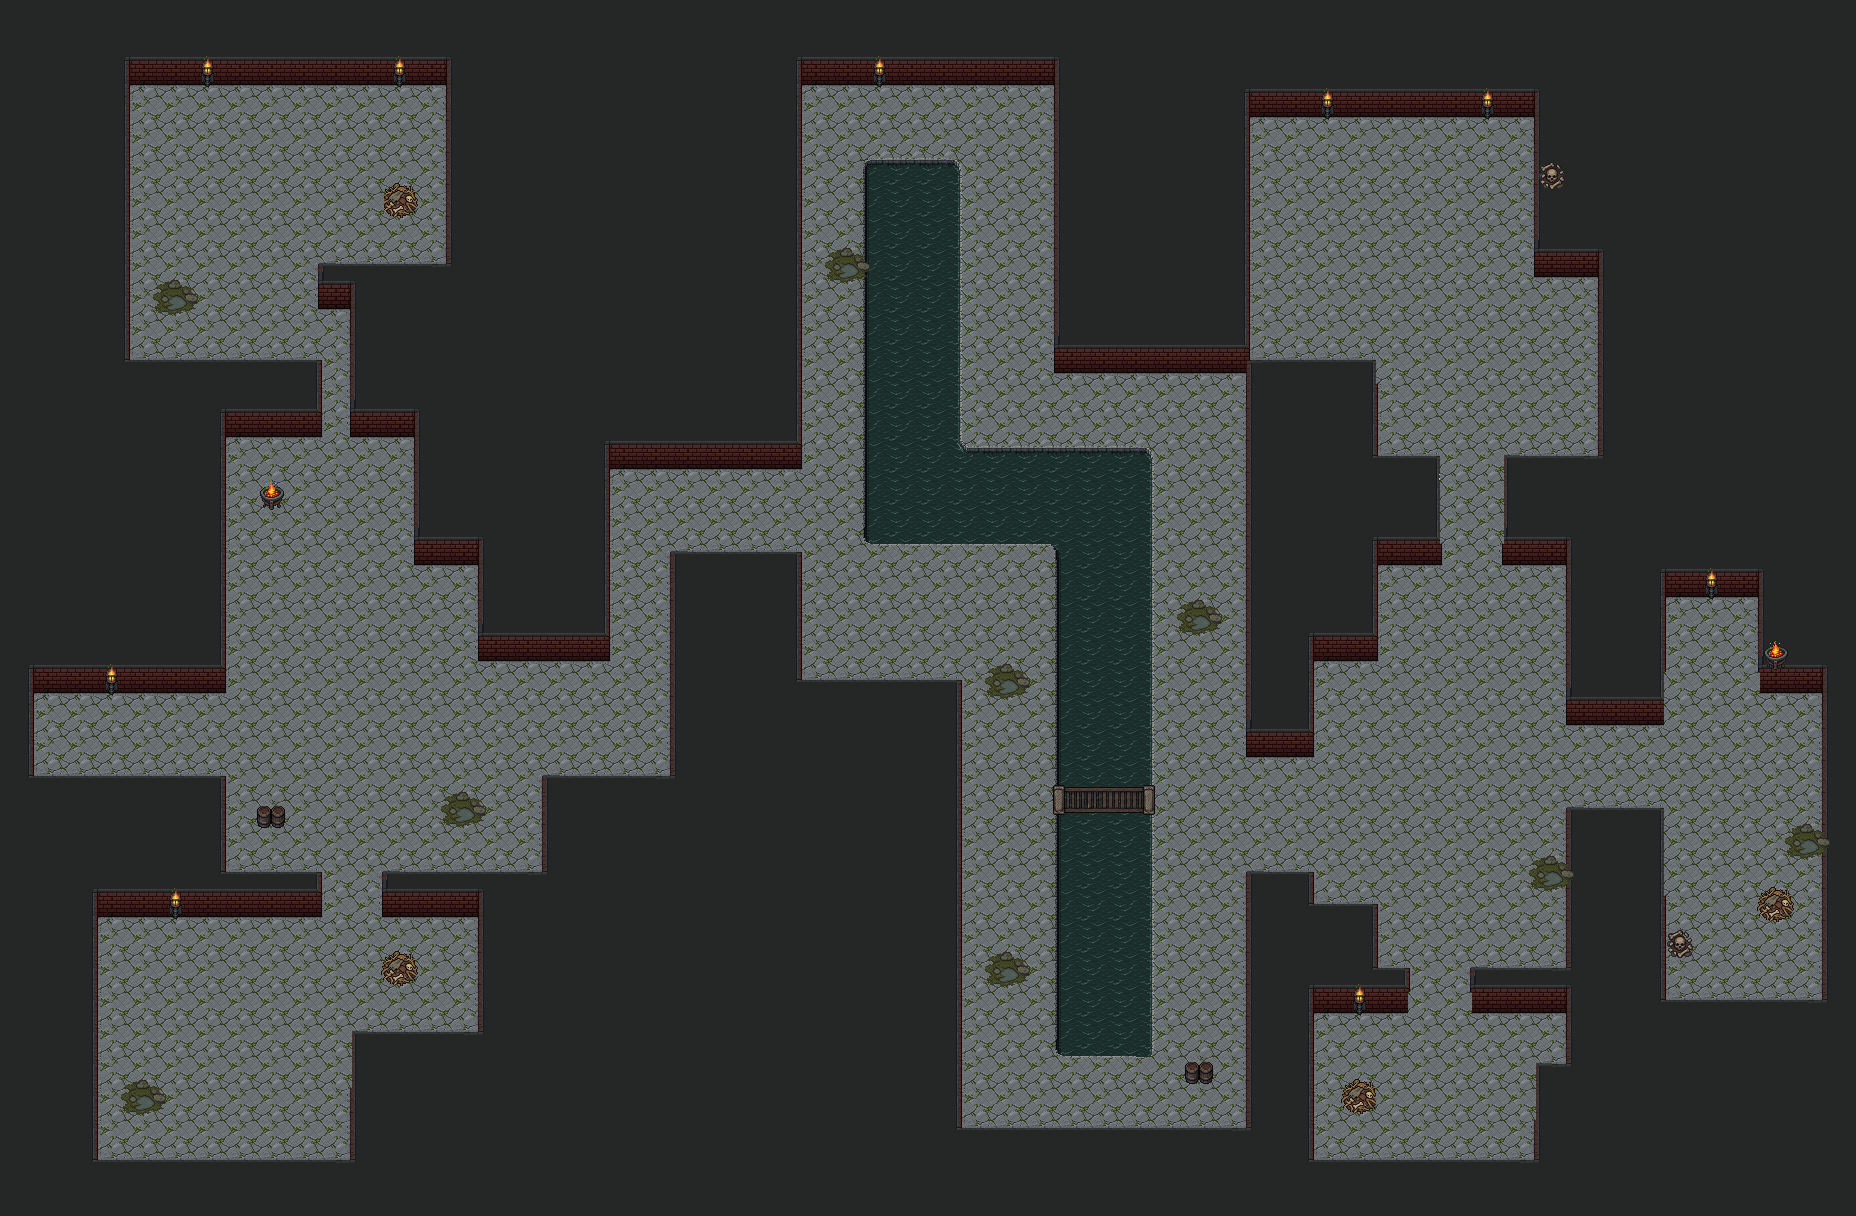
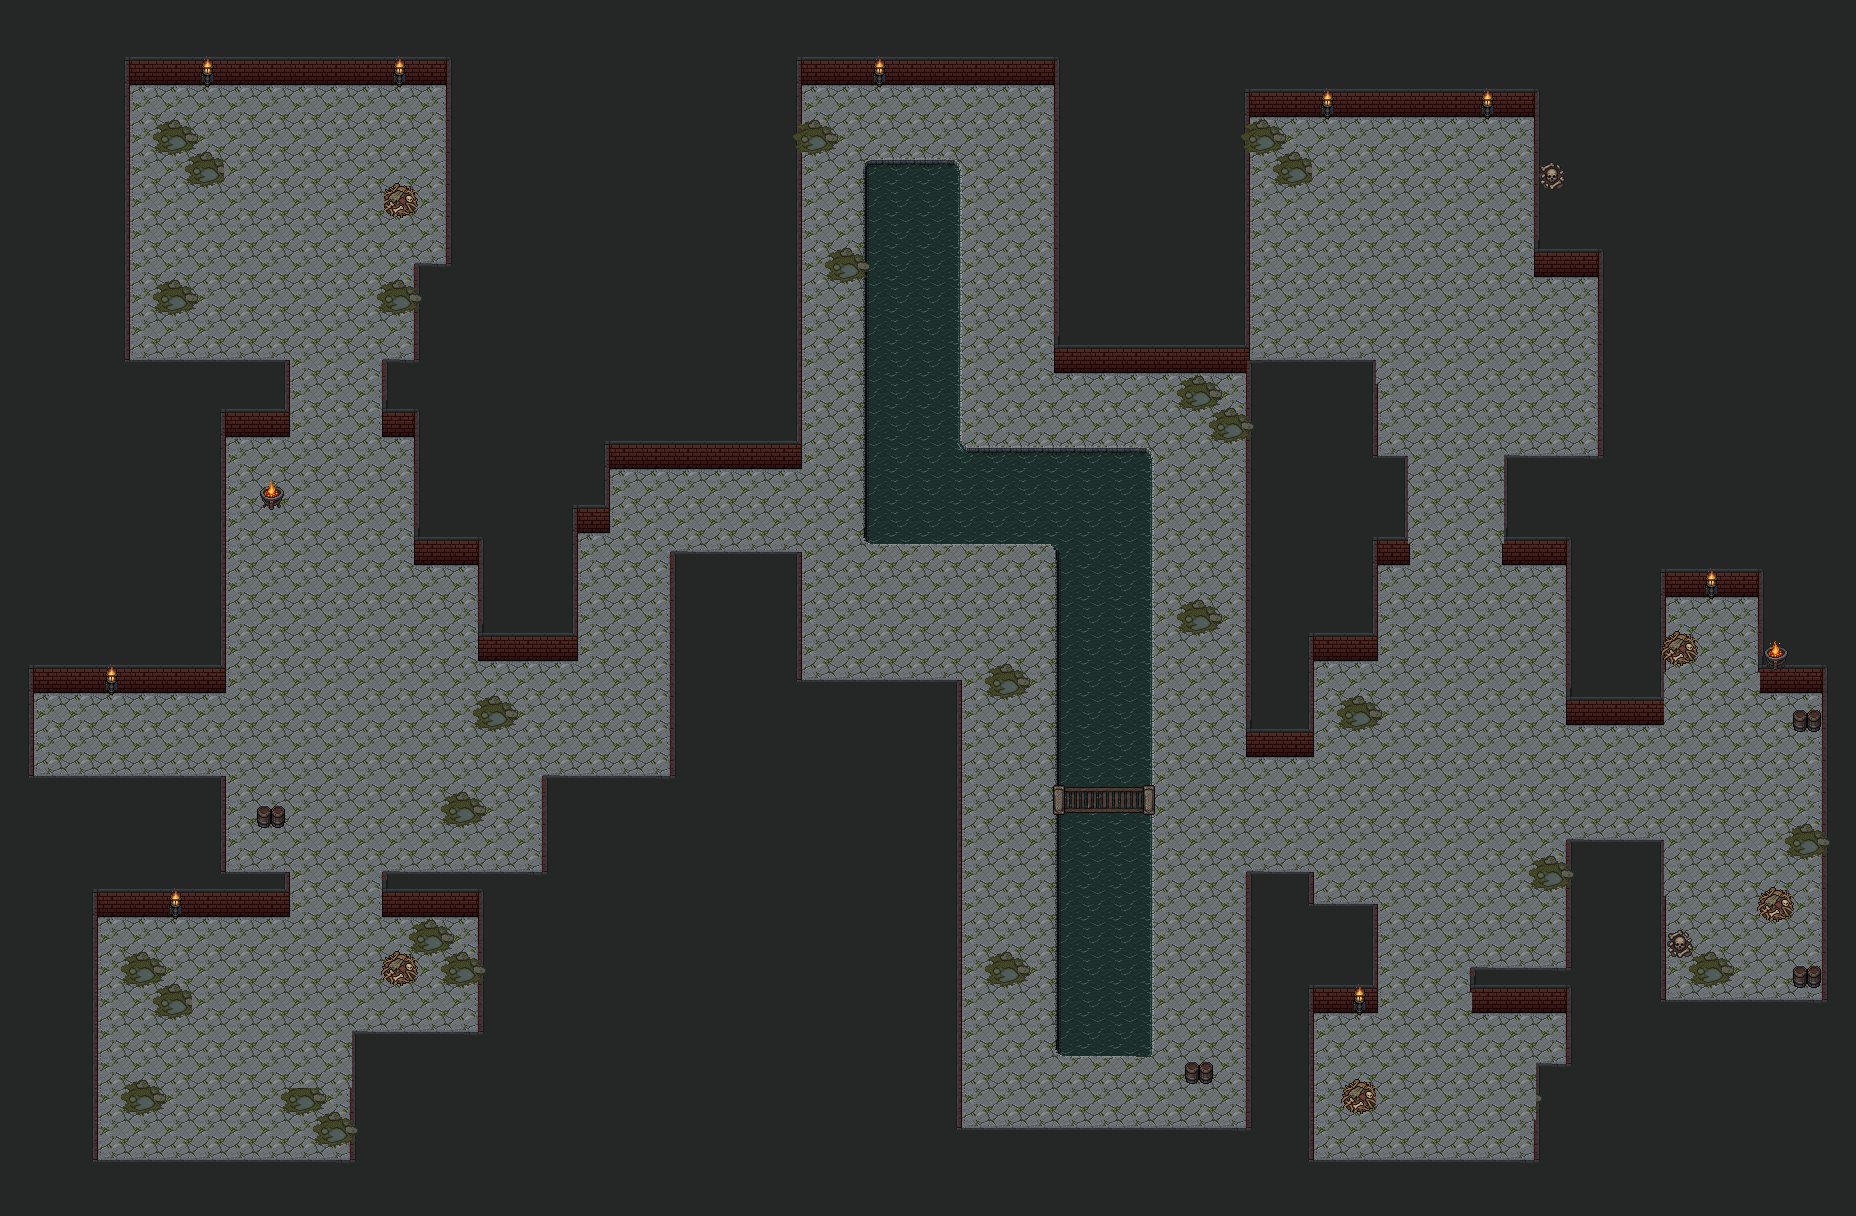
proto(hunt-sim): widened sewer re-export, room aggro + leash, hero death
Map re-exported after widening NW/SW/NE/SE/King corridors to 3 and
adding clustered moss-puddle decals plus Rat King props. Sim: pull
when the knight reaches the pack inside its room, monsters leash to
the room, heroes die and respawn at the entrance, number offsets,
druid bolt, camera snap, ranged prefer tiles inside the room.

diff --git a/prototypes/hunt-sim/sim.js b/prototypes/hunt-sim/sim.js
@@ -5,7 +5,8 @@
 const CONFIG = {
   tile: 32, scale: 2, dt: 1 / 30,
   swing: 2.0,                 // every attack, heroes and monsters
-  aggroRadius: 5,             // tiles, knight to any pack member (needs line of sight)
+  heroRespawnSec: 8,
+  pullDist: 1.5,               // pack aggros when the knight, inside its room, is this close to the pack centre          // a dead hero reappears at the entrance
   respawnSec: 90,
   corpseSec: 4,
   regroupSec: 1.5,
@@ -28,12 +29,12 @@ const CONFIG = {
   },
   // the route, pocket by pocket; spawn tiles come from the PixelLab map placements
   pockets: [
-    { name: 'NW room',      spawns: [['rat', 7, 4], ['rat', 8, 3], ['rat', 9, 4], ['rat', 8, 5]] },
-    { name: 'SW room',      spawns: [['slime', 6, 31], ['slime', 7, 30], ['slime', 8, 31]] },
-    { name: 'Channel west', spawns: [['bat', 30, 27], ['bat', 31, 29]] },
-    { name: 'NE room',      spawns: [['spider', 41, 5], ['spider', 43, 5], ['spider', 40, 6], ['bat', 42, 4], ['bat', 44, 6]] },
-    { name: 'SE room',      spawns: [['kobold', 43, 32], ['kobold', 44, 31], ['kobold', 45, 32]] },
-    { name: 'Rat King',     spawns: [['ratking', 53, 23], ['rat', 52, 21], ['rat', 52, 25]] },
+    { name: 'NW room',      room: [3, 2, 12, 9],   spawns: [['rat', 7, 4], ['rat', 8, 3], ['rat', 9, 4], ['rat', 8, 5]] },
+    { name: 'SW room',      room: [2, 27, 13, 34], spawns: [['slime', 6, 31], ['slime', 7, 30], ['slime', 8, 31]] },
+    { name: 'Channel west', room: [29, 25, 37, 34], spawns: [['bat', 30, 27], ['bat', 31, 29]] },
+    { name: 'NE room',      room: [38, 2, 48, 12], spawns: [['spider', 41, 5], ['spider', 43, 5], ['spider', 40, 6], ['bat', 42, 4], ['bat', 44, 6]] },
+    { name: 'SE room',      room: [40, 30, 47, 34], spawns: [['kobold', 43, 32], ['kobold', 44, 31], ['kobold', 45, 32]] },
+    { name: 'Rat King',     room: [51, 17, 55, 29], spawns: [['ratking', 53, 23], ['rat', 52, 21], ['rat', 52, 25]] },
   ],
   start: [[0, 21], [0, 20], [0, 22], [1, 21]],
 };
@@ -46,6 +47,7 @@ const key = (x, y) => y * W + x;
 const rnd = (a, b) => a + Math.floor(Math.random() * (b - a + 1));
 const cheb = (a, b) => Math.max(Math.abs(a.x - b.x), Math.abs(a.y - b.y));
 const eu = (a, b) => Math.hypot(a.x - b.x, a.y - b.y);
+const inRoom = (i, x, y) => { const r = CONFIG.pockets[i].room; return x >= r[0] && y >= r[1] && x <= r[2] && y <= r[3]; };
 
 // ---------- images ----------
 const IMG = {};
@@ -165,10 +167,11 @@ const hero = k => S.units.find(u => u.kind === k && u.side === 'hero');
 const living = side => S.units.filter(u => u.alive && u.side === side);
 
 // ---------- movement ----------
+function leash(u) { return u.side === 'mon' ? (x, y) => !inRoom(u.pocket, x, y) : null; }
 function setGoal(u, gx, gy) {
   if (u.goal && u.goal[0] === gx && u.goal[1] === gy && (u.path.length || (u.x === gx && u.y === gy))) return;
   u.goal = [gx, gy];
-  u.path = astar(u.x, u.y, gx, gy) || [];
+  u.path = astar(u.x, u.y, gx, gy, leash(u)) || [];
 }
 function stepUnit(u, dt) {
   if (u.t < 1) {
@@ -190,7 +193,8 @@ function stepUnit(u, dt) {
       swap(u, blocker); return;
     }
     if (u.wait > 0.5 && u.goal) {
-      const p = astar(u.x, u.y, u.goal[0], u.goal[1], (x, y) => S.occ.has(key(x, y)) && cheb({ x, y }, u) <= 3);
+      const lf = leash(u);
+      const p = astar(u.x, u.y, u.goal[0], u.goal[1], (x, y) => (S.occ.has(key(x, y)) && cheb({ x, y }, u) <= 3) || (lf && lf(x, y)));
       if (p && p.length) u.path = p;
       u.wait = 0.2;
     }
@@ -220,11 +224,34 @@ function face(u, t) { if (t) u.dir = dirOf(t.x - u.x, t.y - u.y); }
 function hurt(t, amt, src) {
   if (!t.alive) return;
   t.hp = Math.max(0, t.hp - amt);
-  S.fx.push({ type: 'num', x: t.px, y: t.py, txt: String(amt), col: t.side === 'hero' ? '#ff6a5a' : '#ffe9b0', age: 0 });
+  t.numN = ((t.numN || 0) + 1) % 4;
+  S.fx.push({ type: 'num', x: t.px, y: t.py, dx: [0, 7, -7, 0][t.numN], dy: [0, -4, -4, -9][t.numN], txt: String(amt), col: t.side === 'hero' ? '#ff6a5a' : '#ffe9b0', age: 0 });
   S.fx.push({ type: 'spark', x: t.px, y: t.py, age: 0 });
   if (t.hp <= 0) {
     t.alive = false; t.dead = 0; t.path = []; S.occ.delete(key(t.x, t.y));
-    if (t.side === 'hero') { t.hp = 1; t.alive = true; S.occ.set(key(t.x, t.y), t); } // placeholder: heroes don't die in the PoC
+    if (t.side === 'hero') heroDied(t);
+  }
+}
+function heroDied(h) {
+  h.respawnAt = S.time + CONFIG.heroRespawnSec; h.goal = null;
+  STATS.deaths = (STATS.deaths || 0) + 1;
+  if (S.pull) S.pull.deaths = (S.pull.deaths || 0) + 1;
+  if (h.kind === 'knight') {
+    // wipe: the pack leashes home and heals; everyone respawns at the entrance
+    for (const u of living('hero')) { u.alive = false; u.dead = 0; u.path = []; S.occ.delete(key(u.x, u.y)); u.respawnAt = h.respawnAt; }
+    for (const m of living('mon')) if (m.target) { m.target = null; m.hp = m.maxHp; setGoal(m, ...m.home); }
+    if (S.pull) { S.pull.wipe = true; endPull(); }
+    S.phase = 'dead';
+  } else {
+    for (const m of living('mon')) if (m.target === h) m.target = hero('knight');
+  }
+}
+function respawnHeroes() {
+  for (const h of S.units) if (h.side === 'hero' && !h.alive && S.time >= h.respawnAt) {
+    const f = freeNear(...CONFIG.start[0], 3); if (!f) continue;
+    Object.assign(h, { alive: true, hp: h.maxHp, x: f[0], y: f[1], px: f[0], py: f[1], fx: f[0], fy: f[1], t: 1, path: [], goal: null, dead: 0 });
+    S.occ.set(key(f[0], f[1]), h);
+    if (h.kind === 'knight') { S.trail = [[f[0], f[1]]]; S.camSnap = true; }
   }
 }
 function adjacentMonsters(tile) { return living('mon').filter(m => m.target && cheb(m, tile) <= 1); }
@@ -243,13 +270,15 @@ function aiTravel() {
   const goal = freeNear(Math.round(c[0]), Math.round(c[1]), 2) || [mons[0].x, mons[0].y];
   if (!k.goal || k.repath <= 0) { setGoal(k, goal[0], goal[1]); k.repath = 1.5; }
   // aggro check
-  for (const m of mons) if (eu(m, k) <= CONFIG.aggroRadius && los(m, k)) { startPull(); return; }
+  // the knight walks into the room up to the pack, so the ranged are inside the door too
+  if (inRoom(S.pocketIdx, k.x, k.y) && Math.hypot(k.x - c[0], k.y - c[1]) <= CONFIG.pullDist) { startPull(); return; }
   followTrail();
 }
 function followTrail() {
   const order = ['paladin', 'druid', 'sorcerer'];
   order.forEach((n, i) => {
     const u = hero(n);
+    if (!u.alive) return;
     const idx = S.trail.length - 1 - (i + 1) * 2;
     if (idx < 0) return;
     const [tx, ty] = S.trail[idx];
@@ -322,14 +351,16 @@ function ringFree(t, r, m) {
   return best;
 }
 function rangedPos(u, k, mons) {
+  if (!u.alive) return;
   const want = CONFIG.heroes[u.kind].back;
   const nearMon = mons.some(m => cheb(m, u) <= 1);
   S.pull.minBack[u.kind] = Math.min(S.pull.minBack[u.kind], eu(u, k));
+  S.pull.samples++; if (inRoom(S.pull.pocket, u.x, u.y)) S.pull.inside = (S.pull.inside || 0) + 1;
   if (u.repath > 0 && !nearMon) return;
   u.repath = 1.0;
   const ok = (x, y) => eu({ x, y }, k) >= want - 1 && eu({ x, y }, k) <= want + 1.2;
   const score = (x, y) => {
-    let s = Math.abs(eu({ x, y }, k) - want) * 2 + eu({ x, y }, u) * 0.35;
+    let s = Math.abs(eu({ x, y }, k) - want) * 2 + eu({ x, y }, u) * 0.35 + (inRoom(S.pull.pocket, x, y) ? 0 : 4);
     for (const m of mons) s -= Math.min(eu({ x, y }, m), 6) * 0.15;
     return s;
   };
@@ -350,10 +381,12 @@ function rangedPos(u, k, mons) {
 function endPull() {
   const p = S.pull, name = CONFIG.pockets[p.pocket].name;
   const rec = { run: S.run, pocket: name, secs: +(S.time - p.start).toFixed(1), waits: +(totalWait() - p.waitsAtStart).toFixed(1),
-    noSpot: p.noSpot, queuedMax: p.queuedMax, minBack: Object.fromEntries(Object.entries(p.minBack).map(([a, b]) => [a, +b.toFixed(1)])) };
+    noSpot: p.noSpot, queuedMax: p.queuedMax, deaths: p.deaths || 0, wipe: !!p.wipe, rangedInside: p.samples ? Math.round(100 * (p.inside || 0) / p.samples) : 0, minBack: Object.fromEntries(Object.entries(p.minBack).map(([a, b]) => [a, +b.toFixed(1)])) };
   STATS.pulls.push(rec);
+  S.pull = null;
+  if (rec.wipe) { S.packs[p.pocket].aggro = false; logRender(); return; }
   S.packs[p.pocket].alive = false; S.packs[p.pocket].respawnAt = S.time + CONFIG.respawnSec;
-  S.phase = 'regroup'; S.phaseT = CONFIG.regroupSec; S.pull = null;
+  S.phase = 'regroup'; S.phaseT = CONFIG.regroupSec; S.regroupNext = true;
   logRender();
 }
 function nextPocket() {
@@ -371,6 +404,7 @@ function attacks(dt) {
     u.swing -= dt;
     if (u.swing > 0) continue;
     if (u.side === 'mon') {
+      if (u.target && !u.target.alive) u.target = hero('knight').alive ? hero('knight') : null;
       if (u.target && cheb(u, u.target) <= 1 && u.t >= 1) {
         face(u, u.target); hurt(u.target, rnd(...CONFIG.monsters[u.kind].dmg), u); u.swing = CONFIG.swing;
       }
@@ -408,7 +442,7 @@ function attacks(dt) {
       } });
       continue;
     }
-    S.fx.push({ type: 'proj', kind: u.kind === 'paladin' ? 'arrow' : u.kind === 'druid' ? 'leaf' : 'bolt', x: u.px, y: u.py, tx: tgt.x, ty: tgt.y,
+    S.fx.push({ type: 'proj', kind: u.kind === 'paladin' ? 'arrow' : u.kind === 'druid' ? 'nature' : 'bolt', x: u.px, y: u.py, tx: tgt.x, ty: tgt.y,
       age: 0, dur: 0.22, onHit: () => hurt(tgt, rnd(...cfg.dmg), u) });
   }
 }
@@ -420,6 +454,7 @@ function tick(dt) {
   const k = hero('knight');
   const last = S.trail[S.trail.length - 1];
   if (!last || last[0] !== k.x || last[1] !== k.y) { S.trail.push([k.x, k.y]); if (S.trail.length > 40) S.trail.shift(); }
+  respawnHeroes();
   // respawns
   S.packs.forEach((p, i) => { if (!p.alive && S.time >= p.respawnAt && !(S.phase === 'fight' && S.pull && S.pull.pocket === i)) {
     S.units = S.units.filter(u => u.side === 'hero' || u.pocket !== i || u.alive);
@@ -427,9 +462,13 @@ function tick(dt) {
   } });
   if (S.phase === 'travel') aiTravel();
   else if (S.phase === 'fight') aiFight();
-  else if (S.phase === 'regroup') {
+  else if (S.phase === 'dead') {
+    if (k.alive) { S.phase = 'regroup'; S.phaseT = CONFIG.regroupSec; S.regroupNext = false; }
+  } else if (S.phase === 'regroup') {
     S.phaseT -= dt; followTrail();
-    if (S.phaseT <= 0) nextPocket();
+    // the party waits until everyone is alive and close to the knight
+    const together = S.units.every(h => h.side !== 'hero' || (h.alive && eu(h, k) <= 7));
+    if (S.phaseT <= 0 && together) { if (S.regroupNext) nextPocket(); else S.phase = 'travel'; }
   }
   if (S.phase !== 'fight') for (const h of living('hero')) h.hp = Math.min(h.maxHp, h.hp + h.maxHp * CONFIG.oocRegenPct * dt);
   // idle monsters drift home (corpses stay put)
@@ -466,7 +505,9 @@ function render() {
   g.imageSmoothingEnabled = false;
   g.fillStyle = '#16181b'; g.fillRect(0, 0, view.w, view.h);
   const k = hero('knight');
-  cam.x += (cx(k.px) - view.w / 2 - cam.x) * 0.12; cam.y += (cy(k.py) - view.h / 2 - cam.y) * 0.12;
+  const tx = cx(k.px) - view.w / 2, ty = cy(k.py) - view.h / 2;
+  if (S.camSnap || Math.hypot(tx - cam.x, ty - cam.y) > T * 4) { cam.x = tx; cam.y = ty; S.camSnap = false; }
+  else { cam.x += (tx - cam.x) * 0.12; cam.y += (ty - cam.y) * 0.12; }
   const ox = -Math.round(cam.x), oy = -Math.round(cam.y);
   if (IMG.map.complete) g.drawImage(IMG.map, ox, oy);
   if (opts.grid) {
@@ -482,8 +523,8 @@ function render() {
       g.strokeStyle = u.side === 'hero' ? 'rgba(120,200,255,.7)' : 'rgba(255,120,120,.6)'; g.beginPath(); g.moveTo(ox + cx(u.px), oy + cy(u.py));
       for (const [x, y] of u.path) g.lineTo(ox + cx(x), oy + cy(y)); g.stroke();
     }
-    S.packs.forEach((p, i) => { if (!p.alive || p.aggro) return; for (const m of living('mon').filter(m => m.pocket === i && !m.target)) {
-      g.strokeStyle = 'rgba(255,90,60,.25)'; g.beginPath(); g.arc(ox + cx(m.px), oy + cy(m.py), CONFIG.aggroRadius * T, 0, 7); g.stroke(); } });
+    CONFIG.pockets.forEach((p, i) => { if (!S.packs[i].alive) return; const r = p.room;
+      g.strokeStyle = 'rgba(255,90,60,.45)'; g.strokeRect(ox + (r[0] + 1) * T + .5, oy + (r[1] + 1) * T + .5, (r[2] - r[0] + 1) * T, (r[3] - r[1] + 1) * T); });
   }
   // corpses first, then living in y order (feet)
   const list = S.units.slice().sort((a, b) => (a.alive - b.alive) || (a.py - b.py) || (a.px - b.px));
@@ -505,7 +546,7 @@ function render() {
     if (f.type === 'proj') {
       const r = f.age / f.dur, x = ox + cx(f.x + (f.tx - f.x) * r), y = oy + cy(f.y + (f.ty - f.y) * r) - 8;
       if (f.kind === 'arrow') { const a = Math.atan2(f.ty - f.y, f.tx - f.x); g.strokeStyle = '#e8dcc0'; g.beginPath(); g.moveTo(x - Math.cos(a) * 5, y - Math.sin(a) * 5); g.lineTo(x, y); g.stroke(); }
-      else { g.fillStyle = f.kind === 'leaf' ? '#8be07a' : '#8fd0ff'; g.fillRect(Math.round(x) - 1, Math.round(y) - 1, 3, 3); }
+      else { g.fillStyle = f.kind === 'nature' ? '#b6f08a' : '#8fd0ff'; g.fillRect(Math.round(x) - 1, Math.round(y) - 1, 3, 3); }
     } else if (f.type === 'spark') {
       g.fillStyle = '#fff3c0'; const x = Math.round(ox + cx(f.x)), y = Math.round(oy + cy(f.y)) - 8;
       g.fillRect(x - 3, y, 7, 1); g.fillRect(x, y - 3, 1, 7);
@@ -516,7 +557,7 @@ function render() {
       for (let i = 0; i < 5; i++) { const a = i * 1.26 + f.age * 6, x = ox + cx(f.x) + Math.cos(a) * 8, y = oy + cy(f.y) - 6 - f.age * 18 + Math.sin(a) * 3; g.fillRect(Math.round(x), Math.round(y), 2, 2); }
     } else {
       g.font = '8px ui-monospace,Consolas,monospace'; g.textAlign = 'center';
-      const x = Math.round(ox + cx(f.x)), y = Math.round(oy + cy(f.y) - 26 - f.age * 14);
+      const x = Math.round(ox + cx(f.x) + (f.dx || 0)), y = Math.round(oy + cy(f.y) - 26 + (f.dy || 0) - f.age * 14);
       g.fillStyle = '#000'; g.fillText(f.txt, x + 1, y + 1); g.fillStyle = f.col; g.fillText(f.txt, x, y);
     }
   }
@@ -533,7 +574,7 @@ $('restart').onclick = () => reset();
 $('tGrid').onclick = () => { opts.grid = !opts.grid; $('tGrid').classList.toggle('on', opts.grid); };
 $('tPath').onclick = () => { opts.paths = !opts.paths; $('tPath').classList.toggle('on', opts.paths); };
 function logRender() {
-  const rows = STATS.pulls.slice(-14).map(p => `r${p.run} ${p.pocket.padEnd(12)} <b>${String(p.secs).padStart(5)}s</b>  wait ${p.waits}s${p.noSpot ? '  cramped ' + p.noSpot : ''}`);
+  const rows = STATS.pulls.slice(-14).map(p => `r${p.run} ${p.pocket.padEnd(12)} <b>${String(p.secs).padStart(5)}s</b>  wait ${p.waits}s${p.deaths ? '  deaths ' + p.deaths : ''}${p.wipe ? '  WIPE' : ''}`);
   $('log').innerHTML = 'Pulls (time to clear)\n' + (rows.join('\n') || '—');
 }
 function hudRender() {
@@ -550,5 +591,6 @@ function frame(now) {
 window.__simFast = secs => { for (let i = 0; i < secs / CONFIG.dt; i++) tick(CONFIG.dt); logRender(); return STATS.pulls; };
 window.__congestion = (n = 12) => [...STATS.waits].sort((a, b) => b[1] - a[1]).slice(0, n).map(([k, v]) => ({ x: k % W, y: (k / W) | 0, wait: +v.toFixed(1) }));
 window.__S = () => S;
+window.__hurt = (u, n) => hurt(u, n);
 reset();
 requestAnimationFrame(frame);

diff --git a/prototypes/hunt-sim/grid.js b/prototypes/hunt-sim/grid.js
@@ -1,1 +1,1 @@
-window.GRID=['ttttttttttttttttttttttttttttttttttttttttttttttttttttttttt','tttooooooooootttttttttttoooooooottttttttttttttttttttttttt','tttwwwwwwwwwwtttttttttttwwwwwwwwttttttoooooooootttttttttt','tttwwwwwwwwwwtttttttttttwwwwwwwwttttttwwwwwwwwwtttttttttt','tttwwwwwwwwwwtttttttttttwwdddwwwttttttwwwwwwwwwtttttttttt','tttwwwwwwwwwwtttttttttttwwdddwwwttttttwwwwwwwwwtttttttttt','tttwwwwwwwwwwtttttttttttwwdddwwwttttttwwwwwwwwwtttttttttt','tttwwwwwwtttttttttttttttwwdddwwwttttttwwwwwwwwwootttttttt','tttwwwwwwottttttttttttttwwdddwwwttttttwwwwwwwwwwwtttttttt','tttwwwwwwwttttttttttttttwwdddwwwttttttwwwwwwwwwwwtttttttt','tttttttttwttttttttttttttwwdddwwwoooooottttwwwwwwwtttttttt','tttttttttwttttttttttttttwwdddwwwwwwwwwttttwwwwwwwtttttttt','ttttttooowoottttttttttttwwdddwwwwwwwwwttttwwwwwwwtttttttt','ttttttwwwwwwttttttoooooowwdddddddddwwwttttttwwttttttttttt','ttttttwwwwwwttttttwwwwwwwwdddddddddwwwttttttwwttttttttttt','ttttttwwwwwwttttttwwwwwwwwdddddddddwwwttttttwwttttttttttt','ttttttwwwwwwoottttwwttttwwwwwwwwdddwwwttttoowwoottttttttt','ttttttwwwwwwwwttttwwttttwwwwwwwwdddwwwttttwwwwwwtttooottt','ttttttwwwwwwwwttttwwttttwwwwwwwwdddwwwttttwwwwwwtttwwwttt','ttttttwwwwwwwwoooowwttttwwwwwwwwdddwwwttoowwwwwwtttwwwttt','oooooowwwwwwwwwwwwwwtttttttttwwwdddwwwttwwwwwwwwtttwwwoot','wwwwwwwwwwwwwwwwwwwwtttttttttwwwdddwwwttwwwwwwwwooowwwwwt','wwwwwwwwwwwwwwwwwwwwtttttttttwwwdddwwwoowwwwwwwwwwwwwwwwt','ttttttwwwwwwwwwwtttttttttttttwwwdddwwwwwwwwwwwwwwwwwwwwwt','ttttttwwwwwwwwwwtttttttttttttwwwbbbwwwwwwwwwwwwwtttwwwwwt','ttttttwwwwwwwwwwtttttttttttttwwwdddwwwwwwwwwwwwwtttwwwwwt','tttttttttwwttttttttttttttttttwwwdddwwwttwwwwwwwwtttwwwwwt','ttooooooowwoootttttttttttttttwwwdddwwwttttwwwwwwtttwwwwwt','ttwwwwwwwwwwwwtttttttttttttttwwwdddwwwttttwwwwwwtttwwwwwt','ttwwwwwwwwwwwwtttttttttttttttwwwdddwwwtttttwwttttttwwwwwt','ttwwwwwwwwwwwwtttttttttttttttwwwdddwwwttooowwooottttttttt','ttwwwwwwwwtttttttttttttttttttwwwdddwwwttwwwwwwwwttttttttt','ttwwwwwwwwtttttttttttttttttttwwwwwwwwwttwwwwwwwtttttttttt','ttwwwwwwwwtttttttttttttttttttwwwwwwwwwttwwwwwwwtttttttttt','ttwwwwwwwwttttttttttttttttttttttttttttttwwwwwwwtttttttttt','ttttttttttttttttttttttttttttttttttttttttttttttttttttttttt','ttttttttttttttttttttttttttttttttttttttttttttttttttttttttt'];
+window.GRID=['ttttttttttttttttttttttttttttttttttttttttttttttttttttttttt','tttooooooooootttttttttttoooooooottttttttttttttttttttttttt','tttwwwwwwwwwwtttttttttttwwwwwwwwttttttoooooooootttttttttt','tttwwwwwwwwwwtttttttttttwwwwwwwwttttttwwwwwwwwwtttttttttt','tttwwwwwwwwwwtttttttttttwwdddwwwttttttwwwwwwwwwtttttttttt','tttwwwwwwwwwwtttttttttttwwdddwwwttttttwwwwwwwwwtttttttttt','tttwwwwwwwwwwtttttttttttwwdddwwwttttttwwwwwwwwwtttttttttt','tttwwwwwwwwwttttttttttttwwdddwwwttttttwwwwwwwwwootttttttt','tttwwwwwwwwwttttttttttttwwdddwwwttttttwwwwwwwwwwwtttttttt','tttwwwwwwwwwttttttttttttwwdddwwwttttttwwwwwwwwwwwtttttttt','ttttttttwwwtttttttttttttwwdddwwwoooooottttwwwwwwwtttttttt','ttttttttwwwtttttttttttttwwdddwwwwwwwwwttttwwwwwwwtttttttt','ttttttoowwwottttttttttttwwdddwwwwwwwwwttttwwwwwwwtttttttt','ttttttwwwwwwttttttoooooowwdddddddddwwwtttttwwwttttttttttt','ttttttwwwwwwttttttwwwwwwwwdddddddddwwwtttttwwwttttttttttt','ttttttwwwwwwtttttowwwwwwwwdddddddddwwwtttttwwwttttttttttt','ttttttwwwwwwootttwwwttttwwwwwwwwdddwwwttttowwwoottttttttt','ttttttwwwwwwwwtttwwwttttwwwwwwwwdddwwwttttwwwwwwtttooottt','ttttttwwwwwwwwtttwwwttttwwwwwwwwdddwwwttttwwwwwwtttwwwttt','ttttttwwwwwwwwooowwwttttwwwwwwwwdddwwwttoowwwwwwtttwwwttt','oooooowwwwwwwwwwwwwwtttttttttwwwdddwwwttwwwwwwwwtttwwwoot','wwwwwwwwwwwwwwwwwwwwtttttttttwwwdddwwwttwwwwwwwwooowwwwwt','wwwwwwwwwwwwwwwwwwwwtttttttttwwwdddwwwoowwwwwwwwwwwwwwwwt','ttttttwwwwwwwwwwtttttttttttttwwwdddwwwwwwwwwwwwwwwwwwwwwt','ttttttwwwwwwwwwwtttttttttttttwwwbbbwwwwwwwwwwwwwwwwwwwwwt','ttttttwwwwwwwwwwtttttttttttttwwwdddwwwwwwwwwwwwwtttwwwwwt','ttttttttwwwttttttttttttttttttwwwdddwwwttwwwwwwwwtttwwwwwt','ttoooooowwwoootttttttttttttttwwwdddwwwttttwwwwwwtttwwwwwt','ttwwwwwwwwwwwwtttttttttttttttwwwdddwwwttttwwwwwwtttwwwwwt','ttwwwwwwwwwwwwtttttttttttttttwwwdddwwwttttwwwttttttwwwwwt','ttwwwwwwwwwwwwtttttttttttttttwwwdddwwwttoowwwooottttttttt','ttwwwwwwwwtttttttttttttttttttwwwdddwwwttwwwwwwwwttttttttt','ttwwwwwwwwtttttttttttttttttttwwwwwwwwwttwwwwwwwtttttttttt','ttwwwwwwwwtttttttttttttttttttwwwwwwwwwttwwwwwwwtttttttttt','ttwwwwwwwwttttttttttttttttttttttttttttttwwwwwwwtttttttttt','ttttttttttttttttttttttttttttttttttttttttttttttttttttttttt','ttttttttttttttttttttttttttttttttttttttttttttttttttttttttt'];
